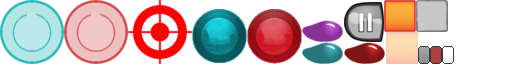
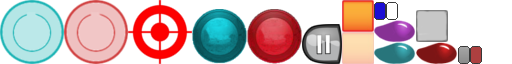
update

Changed region(s): [[0.5625, 0.0, 0.9688, 1.0]]

diff --git a/core/src/noxer/games/ballons/screens/Nivel.java b/core/src/noxer/games/ballons/screens/Nivel.java
@@ -52,13 +52,14 @@ public class Nivel extends testGame{
 		//INIT BALLS
 		setupBalls();
 		coords = new int[2][ply.balls.size];
+		coordsCPU = new int[2][cpu.balls.size];
 		
 		super.setupActors();
 		
-		final Pursue<Vector2> seekSB = new Pursue<Vector2>(((BallBasicAI)balls[1]), 
+		final Pursue<Vector2> seekSB = new Pursue<Vector2>(((BallBasicAI)enemyBalls[0]), 
         		((BallBasicAI)ownBalls[0]));
-        ((BallBasicAI)balls[1].body.getUserData()).setBehavior(seekSB);
-        balls[1].usingAI = true;
+        ((BallBasicAI)enemyBalls[0].body.getUserData()).setBehavior(seekSB);
+        enemyBalls[0].usingAI = true;
         
         
       //setting up processors
@@ -155,32 +156,34 @@ public class Nivel extends testGame{
 		}
 		
 		
-		/*short casX = 12, casY = 8;
-        balls = new Ball[3];
-		balls[0] = new BallBasicAI(entities.createSprite("ballBasicRed"), lay1, world, loadingBarBackground, loadingBar,
-				regionsRed);
-		CoordConverter.PlacePlayer(casX, casY, balls[0]);*/
-		balls = new Ball[2];
+		for (int i = 0; i < enemyBalls.length; i++){
+			switch (ops.unidadesEnemigo[i]) { //segun el tipo de unidad k sea la 0, creamos 1 tipo o otro, y asi
+			case 0:
+				enemyBalls[i] = new BallBasicAI(entities.createSprite("ballBasicBlue"), 
+						lay1, world, loadingBarBackground, loadingBar, regionsBlue);
+				break;
+				//PONER OTROS CASOS
+			default:
+				enemyBalls[i] = new BallBasicAI(entities.createSprite("ballBasicBlue"), 
+						lay1, world, loadingBarBackground, loadingBar, regionsBlue);
+				break;
+			}
+			CoordConverter.PlacePlayer(ops.posicionesEnemigas[0][i], ops.posicionesEnemigas[1][i], enemyBalls[i]);
+			enemyBalls[i].initBody(world, 1);
+			enemyBalls[i].setGame(this);
+		}
+		
+
+		/*balls = new Ball[2];
 		short casX = 22;
 		short casY = 32;
 		balls[1] = new BallBasicAI(entities.createSprite("ballBasicBlue"), lay1, world, loadingBarBackground, loadingBar,
 				regionsBlue);
 		CoordConverter.PlacePlayer(casX, casY, balls[1]);
-		balls[1].initBody(world, 1);
+		balls[1].initBody(world, 1);*/
 		
-		/*casX = 14;
-		casY = 12;
-		balls[2] = new BallBasicAI(entities.createSprite("ballBasicRed"), lay1, world, loadingBarBackground, loadingBar,
-				regionsRed);
-		CoordConverter.PlacePlayer(casX, casY, balls[2]);*/
-		
-		//setting up Players
-		//Start player1
-		/*Ball[] a = new Ball[2];
-		a[0] = balls[0];
-		a[1] = balls[2];*/
 		ply = new Player(ownBalls);
-		//initBodys(ply.balls, 5);
+		cpu = new Player(enemyBalls);
 	}
 
 

diff --git a/core/src/noxer/games/ballons/screens/testGame.java b/core/src/noxer/games/ballons/screens/testGame.java
@@ -36,7 +36,7 @@ public abstract class testGame implements Screen {
 	public TiledMap map; 
 	protected IsoMap renderer;
 	
-	public Ball[] balls;
+	//public Ball[] balls;
 	public Ball[] ownBalls, enemyBalls;
 	
 	public Vector3 touchPos, last_touch_down = new Vector3();
@@ -47,8 +47,8 @@ public abstract class testGame implements Screen {
 	Box2DDebugRenderer debugRenderer;
 	private float elapsedSinceAnimation = 0;
 	
-	protected int[][] coords;
-	public Player ply;
+	protected int[][] coords, coordsCPU;
+	public Player ply, cpu;
 	
 	Stage stage;
 	public Controller controller;
@@ -166,9 +166,9 @@ public abstract class testGame implements Screen {
 		//camera.rotate(-0.25f, 0, 0, 1);
 		renderer.getBatch().begin();
 			renderer.renderTileLayer((TiledMapTileLayer) map.getLayers().get(0));
-			renderer.customRender(lay1, coords, ply.balls);
+			renderer.customRender(lay1, coords, ply.balls, coordsCPU, cpu.balls);
 			renderer.renderTileLayer((TiledMapTileLayer) map.getLayers().get(2));
-			balls[1].draw(renderer.getBatch());
+			//balls[1].draw(renderer.getBatch());
 			//player.setColor(0, 0, 1, 1);			
 			renderer.getBatch().setProjectionMatrix(camera.projection);
 			game.font.draw(renderer.getBatch(), "fps: " + Gdx.graphics.getFramesPerSecond(), 280 *camera.zoom, 260*camera.zoom);
@@ -184,6 +184,9 @@ public abstract class testGame implements Screen {
 	private void getRenderingCoords() {
 		for (int i = 0; i < ply.balls.size; i++){
 			CoordConverter.getCellCoords(ply.balls.get(i).getX()+ply.balls.get(i).getWidth()/2, ply.balls.get(i).getY(), coords, i);
+		}
+		for (int i = 0; i < cpu.balls.size; i++){
+			CoordConverter.getCellCoords(cpu.balls.get(i).getX()+cpu.balls.get(i).getWidth()/2, cpu.balls.get(i).getY(), coordsCPU, i);
 		}
 	}
 	
@@ -209,7 +212,8 @@ public abstract class testGame implements Screen {
     	game.batch.dispose();
     	map.dispose();
     	renderer.dispose();
-    	balls[1].getTexture().dispose();//dispose all textures
+    	
+    	//balls[1].getTexture().dispose();//dispose all textures
     	controller.Dispose();
     	stage.dispose();
     	world.dispose();

diff --git a/core/src/noxer/games/ballons/entitiesAI/Tower.java b/core/src/noxer/games/ballons/entitiesAI/Tower.java
@@ -1,8 +1,5 @@
 package noxer.games.ballons.entitiesAI;
 
-import com.badlogic.gdx.graphics.g2d.Batch;
-import com.badlogic.gdx.graphics.g2d.Sprite;
-import com.badlogic.gdx.graphics.g2d.TextureRegion;
 import com.badlogic.gdx.physics.box2d.Body;
 import com.badlogic.gdx.physics.box2d.BodyDef;
 import com.badlogic.gdx.physics.box2d.FixtureDef;
@@ -10,13 +7,17 @@ import com.badlogic.gdx.physics.box2d.PolygonShape;
 import com.badlogic.gdx.physics.box2d.World;
 import com.badlogic.gdx.scenes.scene2d.utils.NinePatchDrawable;
 
-public class Tower extends Sprite {
+public class Tower{
 	
 	private Body body;
+	private int posX, posY, width, height;
 	
-	public Tower(Sprite sprite, NinePatchDrawable patchBack, NinePatchDrawable patchHP,
-			TextureRegion[] explosion){
-		super(sprite);
+	public Tower(NinePatchDrawable patchBack, NinePatchDrawable patchHP, int posX, int posY,
+			int width, int height){
+		this.posX = posX;
+		this.posY = posY;
+		this.width = width;
+		this.height = height;
 	}
 	
 	
@@ -24,12 +25,12 @@ public class Tower extends Sprite {
 		BodyDef bodyDef = new BodyDef();
         bodyDef.type = BodyDef.BodyType.StaticBody;
         bodyDef.fixedRotation = true;
-        bodyDef.position.set(getX() + getWidth()/2, getY() + getHeight()/2);
+        bodyDef.position.set(posX + width/2, posY + height/2);
         body = world.createBody(bodyDef);
         body.setUserData(this);
-        
         PolygonShape shape = new PolygonShape();
-        shape.setAsBox(getWidth()/2, getHeight()/2);
+        shape.setAsBox(width/2, height/2);
+        body.setTransform(body.getPosition(), (float) (Math.PI/2));
 
         FixtureDef fixtureDef = new FixtureDef();
         fixtureDef.shape = shape;
@@ -40,10 +41,10 @@ public class Tower extends Sprite {
         shape.dispose();
 	}
 
-	@Override
+	/*@Override
     public void draw(Batch batch) {
 		super.draw(batch);
-    }
+    }*/
 }
 
 

diff --git a/core/src/noxer/games/ballons/subclasses/IsoMap.java b/core/src/noxer/games/ballons/subclasses/IsoMap.java
@@ -137,7 +137,7 @@ public class IsoMap extends BatchTiledMapRenderer {
 	}
 
 
-	public void customRender (TiledMapTileLayer layer, int[][] coords, Array<Ball> player) {
+	public void customRender (TiledMapTileLayer layer, int[][] coords, Array<Ball> player, int[][] coordsCPU, Array<Ball> cpu) {
 		final Color batchColor = batch.getColor();
 		final float color = Color.toFloatBits(batchColor.r, batchColor.g, batchColor.b, batchColor.a * layer.getOpacity());
 
@@ -174,6 +174,11 @@ public class IsoMap extends BatchTiledMapRenderer {
 						if (coords[0][i] == col)
 							if (coords[1][i] == row)
 								player.get(i).draw(batch);
+					}
+					for (int i = 0; i < cpu.size; i++) {
+						if (coordsCPU[0][i] == col)
+							if (coordsCPU[1][i] == row)
+								cpu.get(i).draw(batch);
 					}
 					continue;
 				}
@@ -222,6 +227,11 @@ public class IsoMap extends BatchTiledMapRenderer {
 					if (coords[0][i] == col)
 						if (coords[1][i] == row)
 							player.get(i).draw(batch);
+				}
+				for (int i = 0; i < cpu.size; i++) {
+					if (coordsCPU[0][i] == col)
+						if (coordsCPU[1][i] == row)
+							cpu.get(i).draw(batch);
 				}
 			}
 		}

diff --git a/core/src/noxer/games/ballons/data/OpcionesPartida.java b/core/src/noxer/games/ballons/data/OpcionesPartida.java
@@ -31,7 +31,7 @@ public class OpcionesPartida {
 			posicionesEnemigas[0][1] = 41;
 			posicionesEnemigas[0][2] = 41;
 			
-			posicionesEnemigas[1][0] = 30;
+			posicionesEnemigas[1][0] = 33;
 			posicionesEnemigas[1][1] = 31;
 			posicionesEnemigas[1][2] = 32;
 			unidadesMias = new int [] {0,1,2};
@@ -55,7 +55,7 @@ public class OpcionesPartida {
 			posicionesEnemigas[0][1] = 41;
 			posicionesEnemigas[0][2] = 41;
 			
-			posicionesEnemigas[1][0] = 30;
+			posicionesEnemigas[1][0] = 33;
 			posicionesEnemigas[1][1] = 31;
 			posicionesEnemigas[1][2] = 32;
 			unidadesMias = new int [] {0,1,2};
@@ -79,7 +79,7 @@ public class OpcionesPartida {
 			posicionesEnemigas[0][1] = 41;
 			posicionesEnemigas[0][2] = 41;
 			
-			posicionesEnemigas[1][0] = 30;
+			posicionesEnemigas[1][0] = 33;
 			posicionesEnemigas[1][1] = 31;
 			posicionesEnemigas[1][2] = 32;
 			unidadesMias = new int [] {0,1,2};

diff --git a/core/src/noxer/games/ballons/entities/Ball.java b/core/src/noxer/games/ballons/entities/Ball.java
@@ -3,7 +3,6 @@ package noxer.games.ballons.entities;
 
 import noxer.games.ballons.maths.CoordConverter;
 import noxer.games.ballons.screens.Nivel;
-import noxer.games.ballons.screens.testGame;
 
 import com.badlogic.gdx.Gdx;
 import com.badlogic.gdx.graphics.g2d.Batch;
